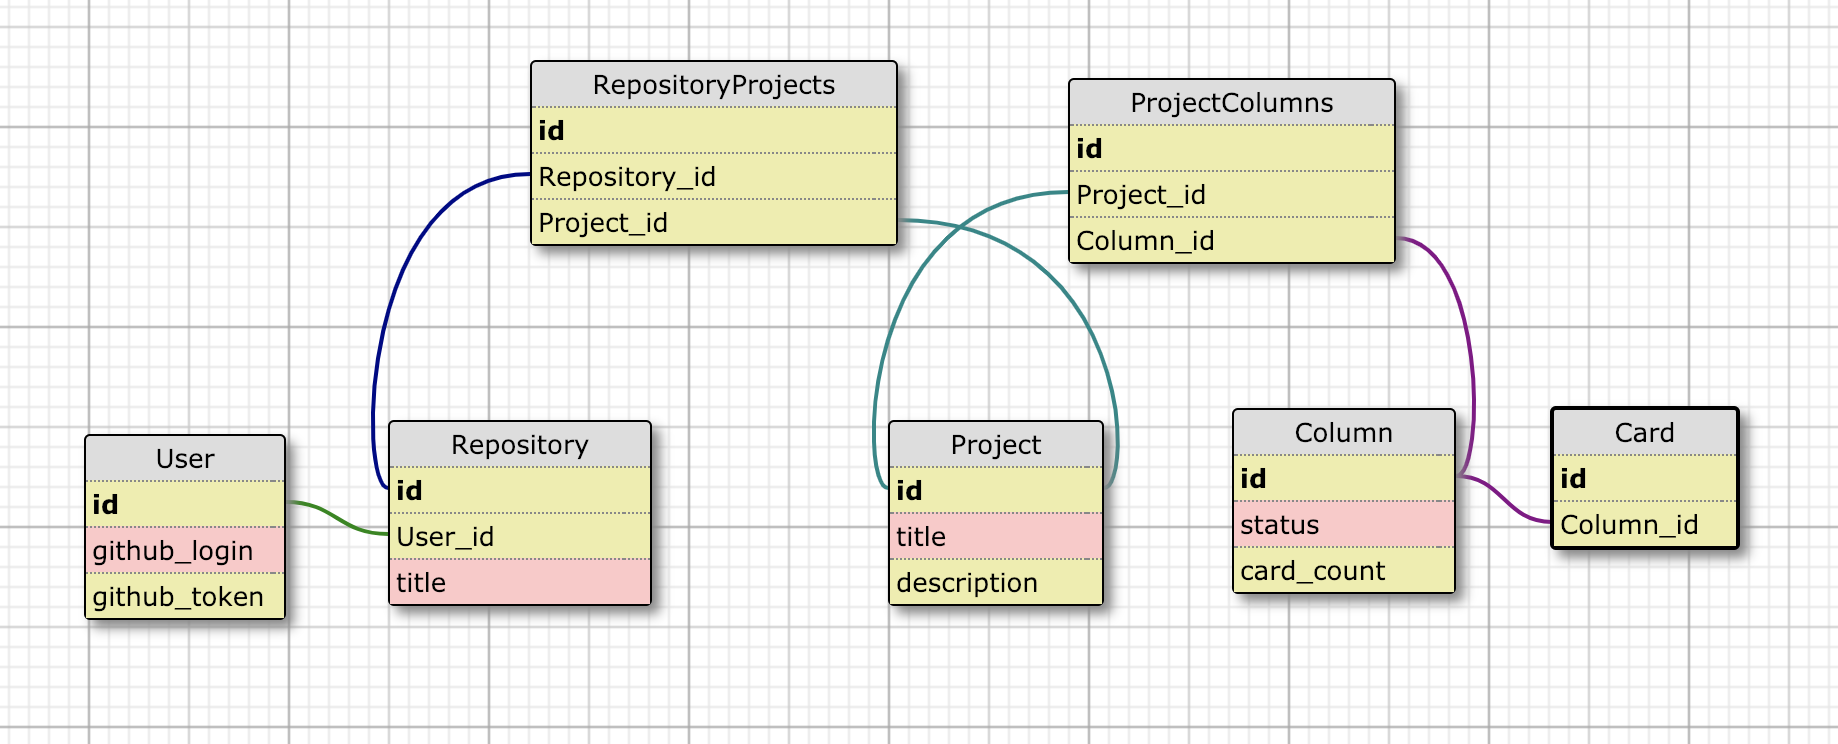
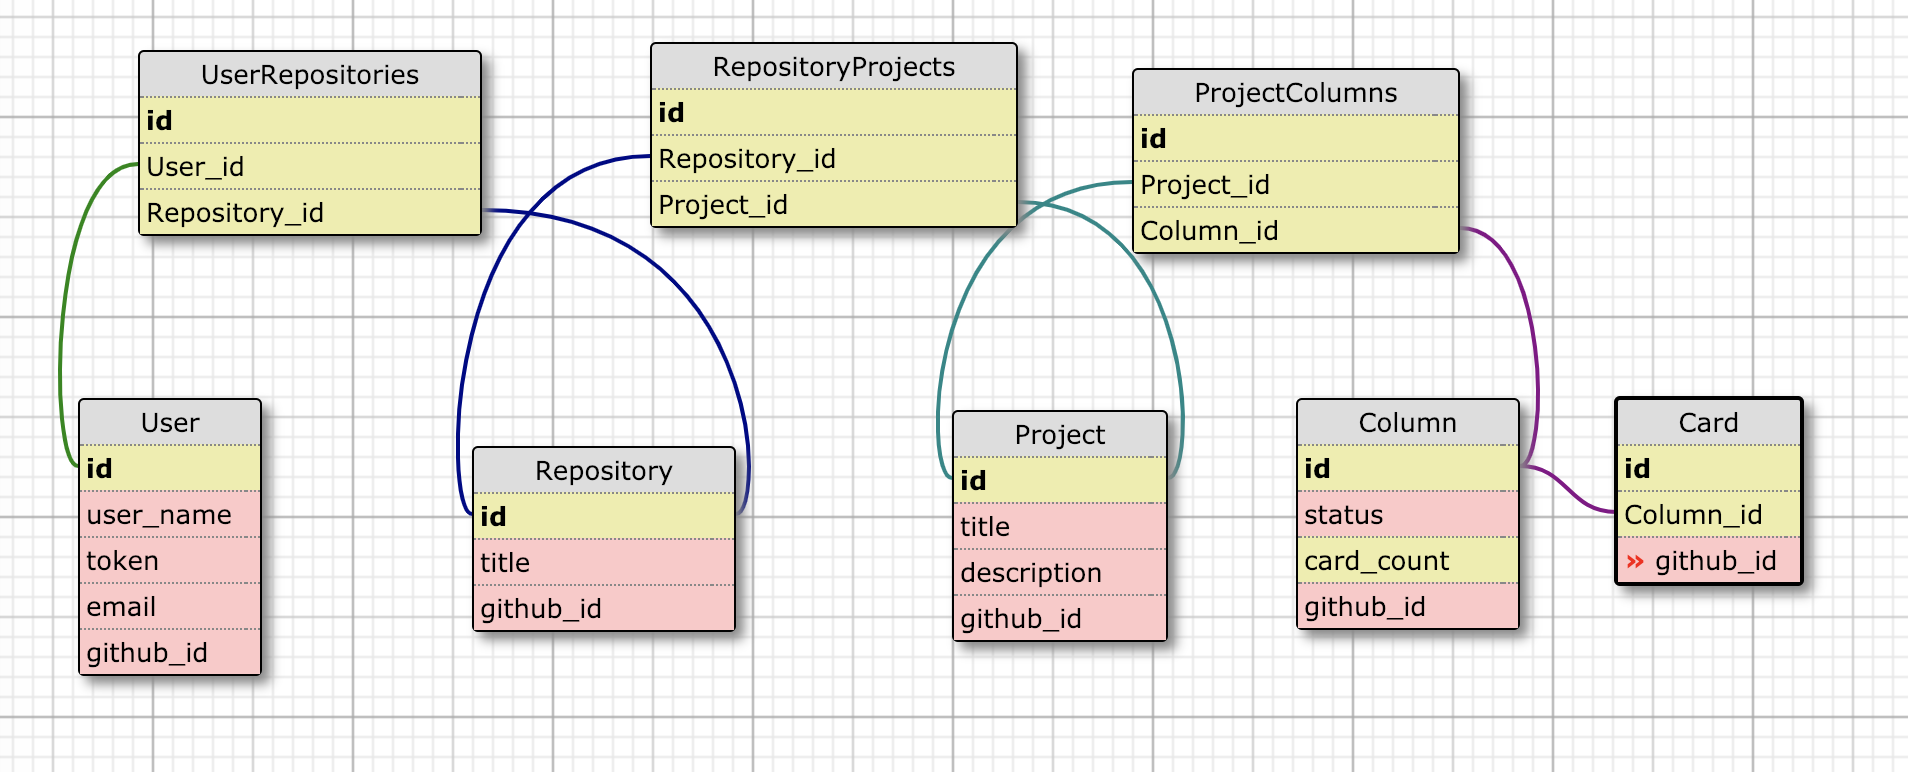
Add validation tests for all models

diff --git a/db/schema.rb b/db/schema.rb
@@ -10,7 +10,7 @@
 #
 # It's strongly recommended that you check this file into your version control system.
 
-ActiveRecord::Schema.define(version: 2019_02_17_050514) do
+ActiveRecord::Schema.define(version: 2019_02_17_053940) do
 
   # These are extensions that must be enabled in order to support this database
   enable_extension "plpgsql"
@@ -49,10 +49,8 @@ ActiveRecord::Schema.define(version: 2019_02_17_050514) do
   create_table "repositories", force: :cascade do |t|
     t.string "name"
     t.string "github_id"
-    t.bigint "user_id"
     t.datetime "created_at", null: false
     t.datetime "updated_at", null: false
-    t.index ["user_id"], name: "index_repositories_on_user_id"
   end
 
   create_table "repository_projects", force: :cascade do |t|
@@ -62,6 +60,15 @@ ActiveRecord::Schema.define(version: 2019_02_17_050514) do
     t.datetime "updated_at", null: false
     t.index ["project_id"], name: "index_repository_projects_on_project_id"
     t.index ["repository_id"], name: "index_repository_projects_on_repository_id"
+  end
+
+  create_table "repository_users", force: :cascade do |t|
+    t.bigint "user_id"
+    t.bigint "repository_id"
+    t.datetime "created_at", null: false
+    t.datetime "updated_at", null: false
+    t.index ["repository_id"], name: "index_repository_users_on_repository_id"
+    t.index ["user_id"], name: "index_repository_users_on_user_id"
   end
 
   create_table "users", force: :cascade do |t|
@@ -76,7 +83,8 @@ ActiveRecord::Schema.define(version: 2019_02_17_050514) do
   add_foreign_key "cards", "columns"
   add_foreign_key "project_columns", "columns"
   add_foreign_key "project_columns", "projects"
-  add_foreign_key "repositories", "users"
   add_foreign_key "repository_projects", "projects"
   add_foreign_key "repository_projects", "repositories"
+  add_foreign_key "repository_users", "repositories"
+  add_foreign_key "repository_users", "users"
 end

diff --git a/db/migrate/20190217053940_create_repository_users.rb b/db/migrate/20190217053940_create_repository_users.rb
@@ -1,0 +1,10 @@
+class CreateRepositoryUsers < ActiveRecord::Migration[5.2]
+  def change
+    create_table :repository_users do |t|
+      t.references :user, foreign_key: true
+      t.references :repository, foreign_key: true
+
+      t.timestamps
+    end
+  end
+end

diff --git a/spec/models/project_column_spec.rb b/spec/models/project_column_spec.rb
@@ -1,5 +1,6 @@
 require 'rails_helper'
 
-RSpec.describe ProjectColumn, type: :model do
-  pending "add some examples to (or delete) #{__FILE__}"
+describe ProjectColumn do
+  it { should belong_to(:project) } 
+  it { should belong_to(:column) } 
 end

diff --git a/db/migrate/20190217042118_create_repositories.rb b/db/migrate/20190217042118_create_repositories.rb
@@ -3,7 +3,6 @@ class CreateRepositories < ActiveRecord::Migration[5.2]
     create_table :repositories do |t|
       t.string :name
       t.string :github_id
-      t.references :user, foreign_key: true
 
       t.timestamps
     end

diff --git a/spec/models/card_spec.rb b/spec/models/card_spec.rb
@@ -1,5 +1,5 @@
 require 'rails_helper'
 
-RSpec.describe Card, type: :model do
-  pending "add some examples to (or delete) #{__FILE__}"
+describe Card do
+   it { should belong_to(:column) } 
 end

diff --git a/spec/models/repository_project_spec.rb b/spec/models/repository_project_spec.rb
@@ -1,5 +1,6 @@
 require 'rails_helper'
 
 describe RepositoryProject do
-
+  it { should belong_to(:repository) } 
+  it { should belong_to(:project) } 
 end

diff --git a/spec/models/project_spec.rb b/spec/models/project_spec.rb
@@ -1,5 +1,6 @@
 require 'rails_helper'
 
 describe Project do
-
+  it { should have_many(:repositories) }
+  it { should have_many(:columns) } 
 end

diff --git a/spec/models/repository_spec.rb b/spec/models/repository_spec.rb
@@ -1,5 +1,6 @@
 require 'rails_helper'
 
 describe Repository do
-
+  it { should have_many(:users) } 
+  it { should have_many(:projects) } 
 end

diff --git a/spec/models/repository_user_spec.rb b/spec/models/repository_user_spec.rb
@@ -1,0 +1,6 @@
+require 'rails_helper'
+
+describe RepositoryUser do
+it { should belong_to(:repository) } 
+it { should belong_to(:user) } 
+end

diff --git a/spec/factories/repository_users.rb b/spec/factories/repository_users.rb
@@ -1,0 +1,6 @@
+FactoryBot.define do
+  factory :repository_user do
+    user { nil }
+    repository { nil }
+  end
+end

diff --git a/app/models/repository.rb b/app/models/repository.rb
@@ -1,3 +1,4 @@
 class Repository < ApplicationRecord
-  belongs_to :user
+  has_many :users
+  has_many :projects
 end

diff --git a/app/models/project.rb b/app/models/project.rb
@@ -1,6 +1,4 @@
 class Project < ApplicationRecord
-  
   has_many :repositories
   has_many :columns
-
 end
